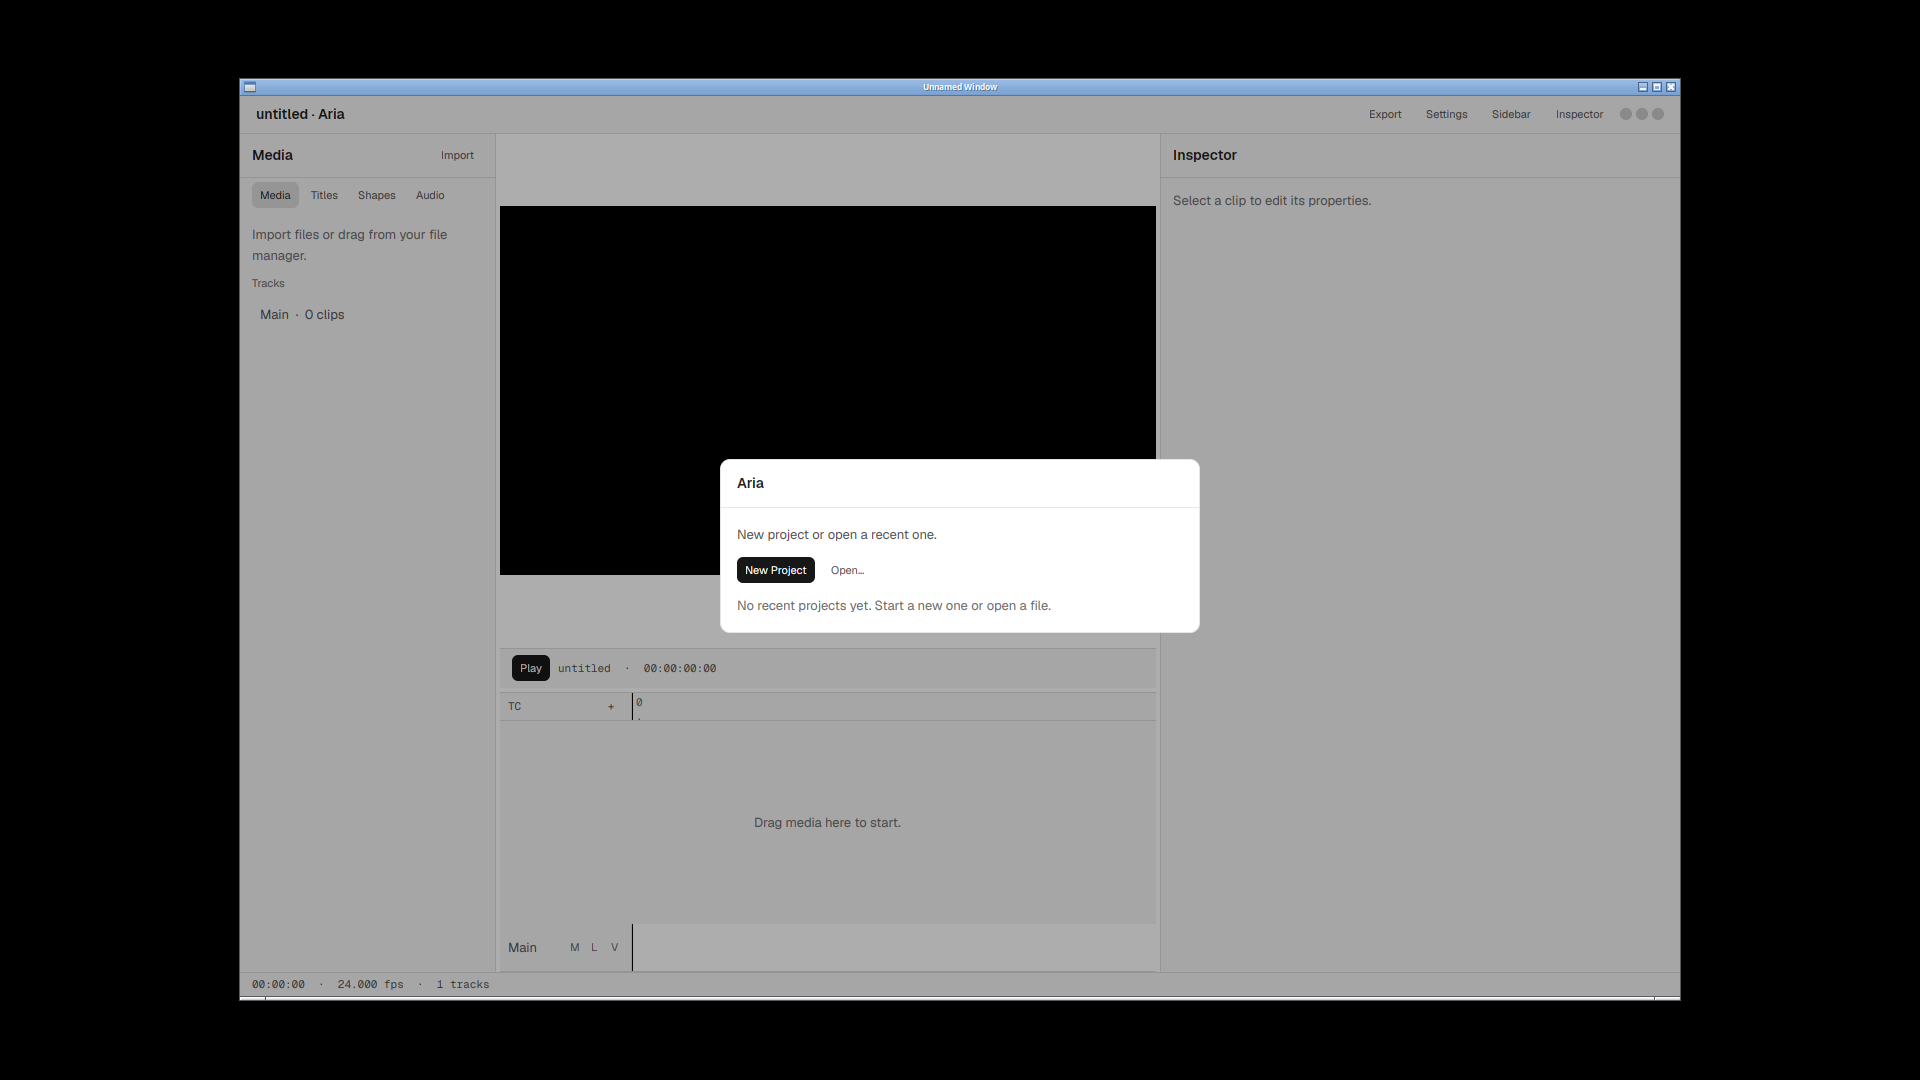
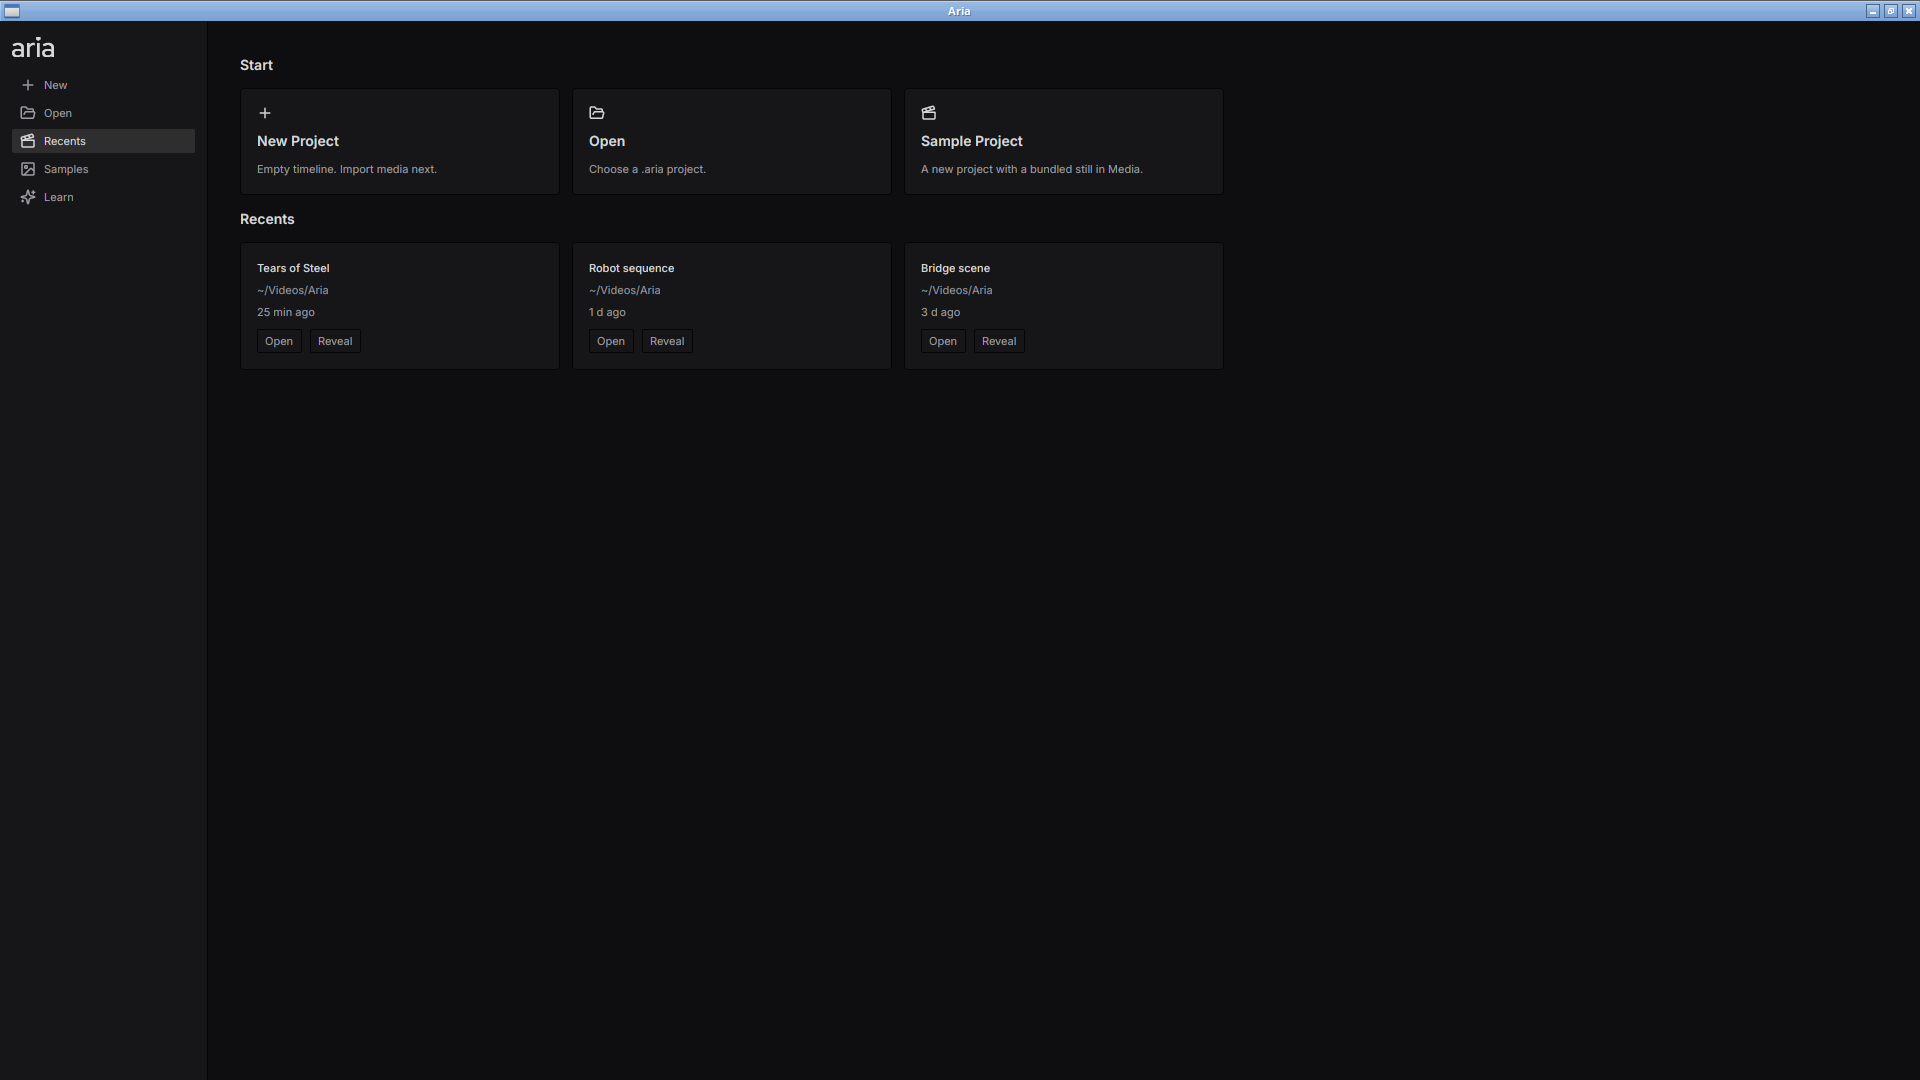
home: one set of columns for the Start tiles and the recents
Recent cards were 280 px wide under 320 px Start tiles, so each ended
40 px short of the tile above it and each later column started 40 px
further left. Both rows now take CARD_WIDTH with the same inset.

The README states what Aria is for: the cut and the motion work in one
project and one undo history, measured speed, plugins on the
interfaces the built-in features use, and a scriptable command line.
Its screenshots show Home and the editor on a project cut from Tears of
Steel (CC BY 3.0, Blender Foundation), credited beside them.

Tests: every recent card shares the left edge and width of the Start
tile in its column, at the opening window size and the smallest; red
with the 280 px card.

diff --git a/crates/aria-ui/src/panels/home/layout_tests.rs b/crates/aria-ui/src/panels/home/layout_tests.rs
@@ -1,0 +1,45 @@
+//! Home's rows of cards form one set of columns.
+//!
+//! The class closed here: two card rows on one pane drawn at different widths.
+//! Recent cards 280 px wide under 320 px Start tiles ended 40 px short of the
+//! tile above, and each later column started 40 px further left of its tile.
+//! Every recent card takes the left edge and the width of the
+//! Start tile in its column, at the window size the editor opens at and at the
+//! smallest window. Only the Recents rail stacks two rows of cards.
+//!
+//! Not covered: the inset of the text inside a card, which no selector reaches.
+
+use gpui::TestAppContext;
+
+use super::scroll_tests::{bounds, draw, home_with_recents};
+use crate::settings::{MIN_WINDOW_HEIGHT, MIN_WINDOW_WIDTH, UiSettings};
+
+/// Layout is in floats; an edge two boxes share lands within this.
+const EPS: f32 = 0.51;
+
+#[gpui::test]
+fn every_recent_card_sits_in_the_column_of_the_start_tile_above_it(cx: &mut TestAppContext) {
+    let opening = UiSettings::default().resolve_window_placement(&[[0.0, 0.0, 1920.0, 1080.0]]);
+    for (tag, window) in [
+        ("home-columns-open", (opening.width, opening.height)),
+        ("home-columns-min", (MIN_WINDOW_WIDTH, MIN_WINDOW_HEIGHT)),
+    ] {
+        let (_state, mut visual) = home_with_recents(cx, tag, window, 3);
+        let visual = &mut visual;
+        draw(visual);
+        for index in 0..3 {
+            let tile = bounds(visual, format!("hero-tile-{index}").leak());
+            let card = bounds(visual, format!("recent-card-{index}").leak());
+            let (tile_x, card_x) = (f32::from(tile.left()), f32::from(card.left()));
+            let (tile_w, card_w) = (f32::from(tile.size.width), f32::from(card.size.width));
+            assert!(
+                (tile_x - card_x).abs() <= EPS && (tile_w - card_w).abs() <= EPS,
+                "{tag}: recent card {index} spans x {card_x}..{} and Start tile {index} \
+                 spans x {tile_x}..{}; a column of Home cards shares one left edge and one \
+                 width",
+                card_x + card_w,
+                tile_x + tile_w
+            );
+        }
+    }
+}

diff --git a/crates/aria-ui/src/panels/home/cards.rs b/crates/aria-ui/src/panels/home/cards.rs
@@ -49,6 +49,9 @@ const CARD_STAGGER: f32 = share(2 * motion::ROW_STAGGER_MS);
 const CARD_FADE: f32 = share(200);
 /// How far a card rises under the pointer.
 const HOVER_LIFT: f32 = 3.0;
+/// Width of every Home card. The hero tiles and the recents grid share it,
+/// with the same gap and the same inset, so the rows form one set of columns.
+const CARD_WIDTH: f32 = 320.0;
 
 /// The last stagger slot. Cards past it share the slot, so the tail of a long
 /// list still completes its fade inside the animation instead of freezing part
@@ -146,7 +149,8 @@ pub(super) fn hero_tile(
     let fade = id.motion("hero-tile");
     let card = div()
         .id(id.element("hero-tile"))
-        .w(px(320.))
+        .debug_selector(move || format!("hero-tile-{index}"))
+        .w(px(CARD_WIDTH))
         .px(px(Theme::SPACE_LG))
         .py(px(Theme::SPACE_LG))
         .rounded(px(Theme::PANEL_RADIUS))
@@ -243,9 +247,9 @@ fn recent_card(
     let card = div()
         .id(key)
         .debug_selector(move || format!("recent-card-{index}"))
-        .w(px(280.))
-        .px(px(Theme::SPACE_MD))
-        .py(px(Theme::SPACE_MD))
+        .w(px(CARD_WIDTH))
+        .px(px(Theme::SPACE_LG))
+        .py(px(Theme::SPACE_LG))
         .rounded(px(Theme::PANEL_RADIUS))
         .bg(motion::hover_blend(
             fade,

diff --git a/crates/aria-ui/src/panels/home/scroll_tests.rs b/crates/aria-ui/src/panels/home/scroll_tests.rs
@@ -30,7 +30,7 @@ const EPS: f32 = 0.51;
 
 /// Home on its Recents rail in a `width` x `height` window, listing `count`
 /// projects that exist on disk.
-fn home_with_recents(
+pub(super) fn home_with_recents(
     cx: &mut TestAppContext,
     tag: &str,
     (width, height): (f32, f32),
@@ -66,14 +66,14 @@ fn home_with_recents(
 }
 
 /// The fades of one full draw, after the follow-ups of the last change.
-fn draw(visual: &mut VisualTestContext) -> Vec<EdgeFade> {
+pub(super) fn draw(visual: &mut VisualTestContext) -> Vec<EdgeFade> {
     visual.run_until_parked();
     crate::edge_fade::take_painted();
     visual.update(|window, _| window.refresh());
     crate::edge_fade::take_painted()
 }
 
-fn bounds(visual: &mut VisualTestContext, selector: &'static str) -> Bounds<Pixels> {
+pub(super) fn bounds(visual: &mut VisualTestContext, selector: &'static str) -> Bounds<Pixels> {
     visual
         .debug_bounds(selector)
         .unwrap_or_else(|| panic!("Home drew no {selector}"))

diff --git a/crates/aria-ui/src/panels/home/mod.rs b/crates/aria-ui/src/panels/home/mod.rs
@@ -10,6 +10,8 @@
 //! [`crate::app::recents`]. Home draws what the state hands it.
 
 mod cards;
+#[cfg(test)]
+mod layout_tests;
 mod panes;
 #[cfg(test)]
 mod press_tests;

diff --git a/README.md b/README.md
@@ -1,15 +1,34 @@
 # Aria
 
-Aria is a free, open-source video editor. Edit on a multi-track timeline, or
-describe the change and the assistant applies it as regular undoable
-commands.
+Aria is a free, open-source video editor that cuts and animates in one
+application. A multi-track timeline in the manner of Premiere Pro and the
+layers, keyframes, masks, and graph editor of After Effects share one project
+and one undo history. A cut, a title animation, and a composite stay in the
+same sequence, with no second application and no round trip between them.
 
-The desktop UI is built on [santh-gpui](https://github.com/santhreal/santh-gpui);
-motion curves and loaders are `gpui::motion`. The target editor is defined in
-the [specification](docs/spec/README.md).
+## Why Aria
 
-It's early alpha. The core editing loop works. Expect rough edges and a
-project format that hasn't settled.
+- **One project for the edit and the motion work.** Keyframe every animatable property of
+  a clip on the timeline where it was cut; nested sequences take the place of
+  precomps.
+- **Measured speed.** On the Server machine with software Vulkan
+  ([measurements](docs/spec/status.md#performance-performancemd)), an edit or
+  undo on a 10,000-clip project reaches the screen in 3.3 ms (p95), the
+  timeline frame of that project builds in under 2.1 ms (p95), the project opens in
+  46 ms, and the app starts in 0.75 s cold and 0.21 s warm.
+- **Plugins on the same interfaces as the built-in features.** Effects,
+  transitions, panels, commands, decoders, encoders, importers, and analyzers
+  load from native (C ABI) or WebAssembly packages.
+- **Scriptable.** A command line creates, inspects, analyzes, renders, and
+  exports projects, and the optional assistant applies its changes as regular
+  undoable commands.
+
+The desktop UI is built on [santh-gpui](https://github.com/santhreal/santh-gpui).
+The target editor is defined in the [specification](docs/spec/README.md).
+
+Aria is in early alpha: the core editing loop works, and rough edges remain.
+Project files carry a schema version; a build opens every earlier version and
+rejects a newer one without changing the file.
 
 ## What it looks like
 
@@ -17,9 +36,9 @@ project format that hasn't settled.
 | --- | --- |
 | ![Home](assets/screenshots/launch.png) | ![Editor](assets/screenshots/editor.png) |
 
-The chrome is neutral gray with one accent: a blue playhead and selection, an
-amber snap guide, a pink busy spinner. A clip bar is filled with its label
-color. UI text is Inter.
+A clip bar is filled with its label color. UI text is Inter. The footage is
+[Tears of Steel](https://mango.blender.org)
+([CC BY 3.0](https://creativecommons.org/licenses/by/3.0/), Blender Foundation).
 
 ## What works today
 

diff --git a/CHANGELOG.md b/CHANGELOG.md
@@ -765,6 +765,7 @@ Notes for the latest release. For previous releases, see the
 - `aria analyze --shots` alone decodes no audio, so it runs on a video file with no audio track.
 - A project still named `untitled` takes the name of its `.aria` file when it is opened from the command line, the Open dialog, Recents, Recovery, or a drop onto the window, or saved, so the window title shows the file name instead of `untitled`.
 - Opening a project saved by a newer Aria states the file's project format version and the versions this build reads, and prompts to update Aria, instead of a generic error.
+- Home's Start tiles and recent project cards share one column width, so each recent card lines up under the Start tile above it.
 - On Linux, an export narrower than 145 pixels on a host with an NVIDIA encoder goes to the next encoder that takes its size, instead of waiting forever on its first frames.
 - On Linux, an export that fails partway, such as on a full disk, stops with GStreamer's reason, instead of waiting forever on its next frame.
 - `aria-desktop` started with no display server that accepts the connection, or with a window that does not open, prints the reason, including the `DISPLAY` or `WAYLAND_DISPLAY` value it tried, and the fix to standard error and exits with status 1, instead of running without a window or panicking.
